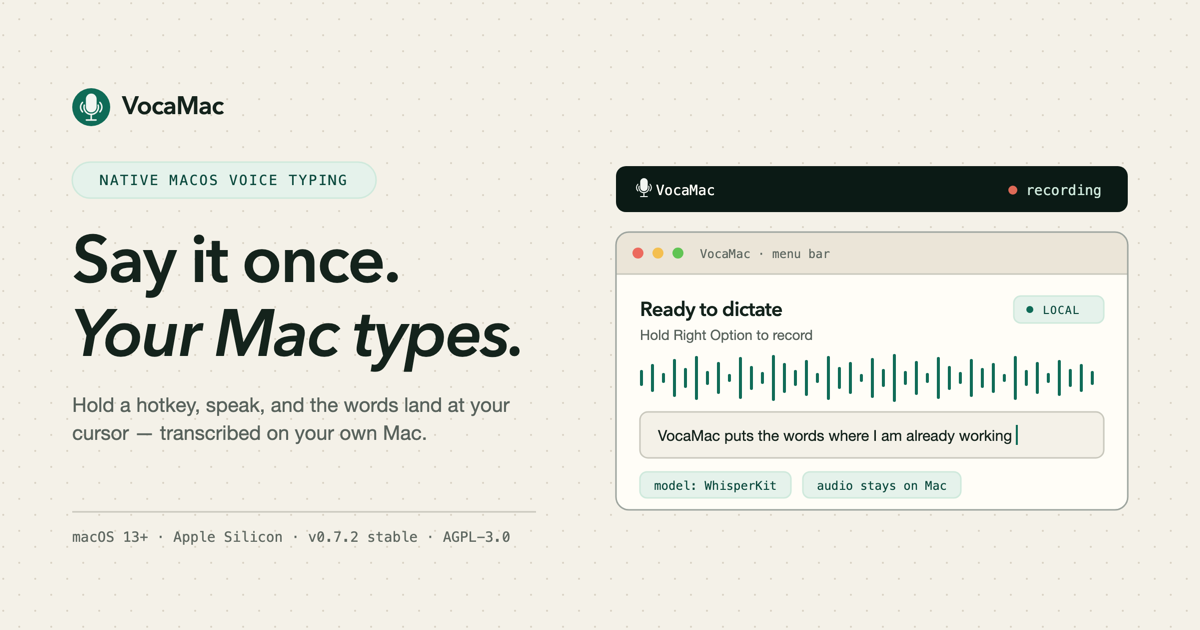
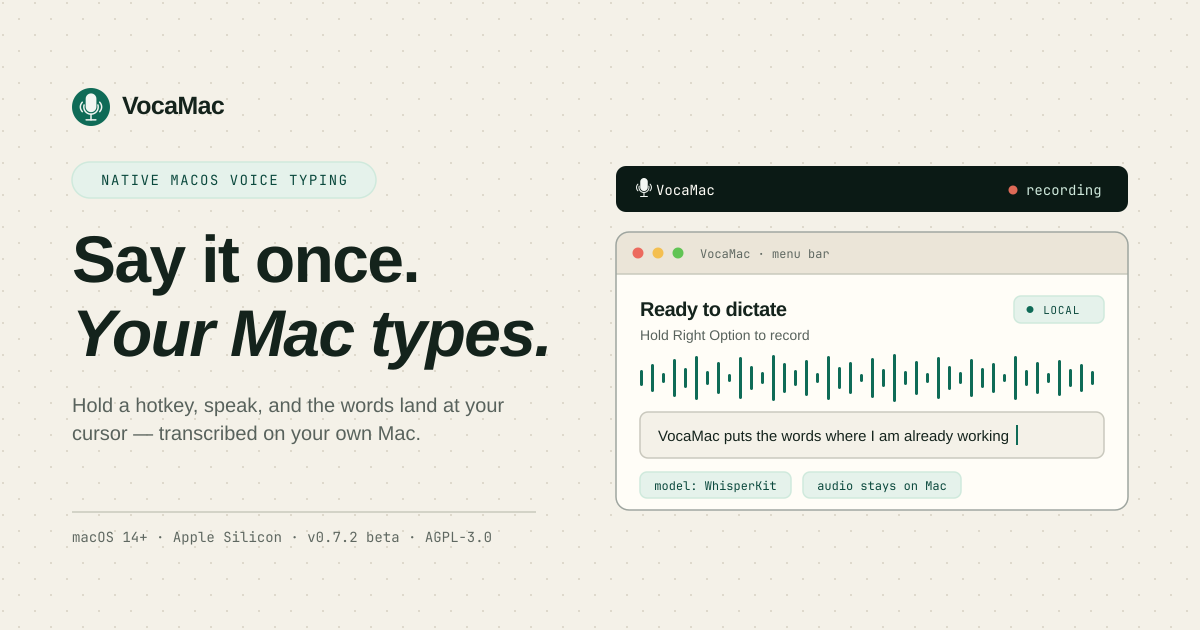
docs(web): label VocaMac Beta and macOS 14+ per PRODUCT.md (#221)
Align visitor-facing status and OS floor with VocaHQ/vocahq PRODUCT.md:
shipping build stays v0.7.2, product status is Beta (not Stable release),
and the floor is macOS 14+ Apple Silicon.

diff --git a/web/layouts/index.html b/web/layouts/index.html
@@ -96,14 +96,14 @@
             <div>
                 <p class="section-tag">choose your model</p>
                 <h2 class="section-title" id="models-title">The model is a setting, not a mystery.</h2>
-                <p class="section-lede">The stable release uses {{ $p.engine.name }} with {{ $p.engine.runtime }} acceleration. VocaMac keeps model choice local, visible, and reversible.</p>
+                <p class="section-lede">The current release uses {{ $p.engine.name }} with {{ $p.engine.runtime }} acceleration. VocaMac keeps model choice local, visible, and reversible.</p>
                 <div class="note">
                     <h3>First download</h3>
                     <p>Models download from <a href="{{ $p.engine.modelRepoURL }}">{{ $p.engine.modelRepo }}</a> and are cached locally. After a model is available, transcription can run without sending audio to a cloud service.</p>
                 </div>
                 <div class="note note-nightly">
                     <h3>Nightly is a separate lane</h3>
-                    <p>The public stable release is {{ $p.stable.tag }}. New engine work may appear in nightly builds before it reaches a stable release; check the release notes before choosing that path.</p>
+                    <p>The current shipping release is {{ $p.stable.tag }} ({{ $p.stable.status }}). New engine work may appear in nightly builds before it reaches a tagged release; check the release notes before choosing that path.</p>
                 </div>
             </div>
             <div class="table-scroll">
@@ -295,10 +295,10 @@
         <div class="faq" data-faq>
             <details open><summary>Does my voice leave my Mac?</summary><p>During transcription, audio is passed to the selected local speech-to-text model on your Mac. VocaMac does not send dictation audio to a Voca cloud service. Model downloads and update checks are separate network actions.</p></details>
             <details><summary>Do I need internet access?</summary><p>You need internet access to download the app or a model that is not on your Mac yet. After the model is available, on-device transcription can work offline. VocaMac may still check GitHub for application updates when that feature is enabled.</p></details>
-            <details><summary>Which Macs can run VocaMac?</summary><p>The current stable release supports {{ $p.requirements.os }} on {{ $p.requirements.arch }}. Intel Macs are not supported by the released arm64 build.</p></details>
+            <details><summary>Which Macs can run VocaMac?</summary><p>The current release supports {{ $p.requirements.os }} on {{ $p.requirements.arch }}. Intel Macs are not supported by the released arm64 build.</p></details>
             <details><summary>Why does VocaMac need permissions?</summary><p>Microphone access captures speech. Accessibility and Input Monitoring let the menu-bar app hear its configured shortcut and insert the resulting text into the app where you are working. Secure fields and individual apps can still restrict insertion.</p></details>
             <details><summary>Which model should I choose?</summary><p>Start with Small on an 8 GB Mac, then choose a compact Large or Distil variant when accuracy matters and your Mac has the headroom. Tiny and Base are useful when a smaller download or lower memory use matters more.</p></details>
-            <details><summary>What is available beyond Whisper?</summary><p>Additional engine work is currently shipped in nightly/source channels rather than the {{ $p.stable.tag }} stable release. Check the current release notes before installing a nightly build.</p></details>
+            <details><summary>What is available beyond Whisper?</summary><p>Additional engine work is currently shipped in nightly/source channels rather than the {{ $p.stable.tag }} release. Check the current release notes before installing a nightly build.</p></details>
         </div>
     </div>
 </section>

diff --git a/web/content/features/apple-silicon-native.md b/web/content/features/apple-silicon-native.md
@@ -1,14 +1,14 @@
 ---
 title: "Apple Silicon Native"
 subtitle: "A native macOS app with local WhisperKit/CoreML transcription on Apple Silicon."
-description: "VocaMac's stable release is built for Apple Silicon Macs and runs its WhisperKit speech-processing path locally after the model is available."
+description: "VocaMac is built for Apple Silicon Macs and runs its WhisperKit speech-processing path locally after the model is available."
 keywords: "apple silicon speech recognition, coreml voice to text, whisperkit macOS, local dictation mac, hardware accelerated transcription mac"
 icon: "⚡"
 ---
 
 ## Built for Apple Silicon
 
-VocaMac's stable release targets Apple Silicon Macs running macOS 13 Ventura or later. The app is a native SwiftUI menu-bar client, with WhisperKit and CoreML providing the stable release's speech-processing path.
+VocaMac targets Apple Silicon Macs running macOS 14 Sonoma or later. The app is a native SwiftUI menu-bar client, with WhisperKit and CoreML providing the current release's speech-processing path.
 
 ![VocaMac Settings showing model management on Apple Silicon](/screenshots/settings-models.png)
 
@@ -30,4 +30,4 @@ Start with a smaller model if you are checking the workflow or have limited disk
 
 Apple Silicon gives the native app a consistent local hardware target and lets CoreML use Apple's on-device execution stack. You keep control over model downloads, microphone permissions, Accessibility access, and the text insertion destination.
 
-For the stable release's complete version, download links, supported language hints, and permissions, see the [installation guide](/#install) and [model catalog](/#models). For newer engines and experiments on `main`, see the [nightly boundary](/#models).
+For the current release's version, download links, supported language hints, and permissions, see the [installation guide](/#install) and [model catalog](/#models). For newer engines and experiments on `main`, see the [nightly boundary](/#models).

diff --git a/web/content/features/smart-model-selection.md b/web/content/features/smart-model-selection.md
@@ -22,7 +22,7 @@ Start with Small on an 8 GB Mac if you want a balanced default. Choose Tiny or B
 
 ## Download, verify, switch
 
-The first use of a model can download its files from the documented WhisperKit model repository. VocaMac caches the model locally, verifies the downloaded assets, and uses the selected model for later recordings. You can keep more than one model; model deletion is part of the newer nightly/source lane rather than the v0.7.2 stable catalog.
+The first use of a model can download its files from the documented WhisperKit model repository. VocaMac caches the model locally, verifies the downloaded assets, and uses the selected model for later recordings. You can keep more than one model; model deletion is part of the newer nightly/source lane rather than the v0.7.2 release catalog.
 
 The model choice affects speed, memory, and accuracy; it does not change the privacy boundary. Transcription remains on-device after the selected model is available.
 

diff --git a/web/content/features/fully-configurable.md b/web/content/features/fully-configurable.md
@@ -30,7 +30,7 @@ The Base model is a small download and transcribes quickly. It is useful for qui
 
 Small, compact Large, and Distil variants offer different accuracy and speed trade-offs. Choose among the models shown in Settings rather than assuming every legacy Whisper size is part of the stable catalog.
 
-The model management interface shows how much disk space each model uses. Download the models you want and switch the selected model from Settings. Model deletion is available in newer nightly/source builds, not the v0.7.2 stable catalog.
+The model management interface shows how much disk space each model uses. Download the models you want and switch the selected model from Settings. Model deletion is available in newer nightly/source builds, not the v0.7.2 release catalog.
 
 ## Audio Settings
 
